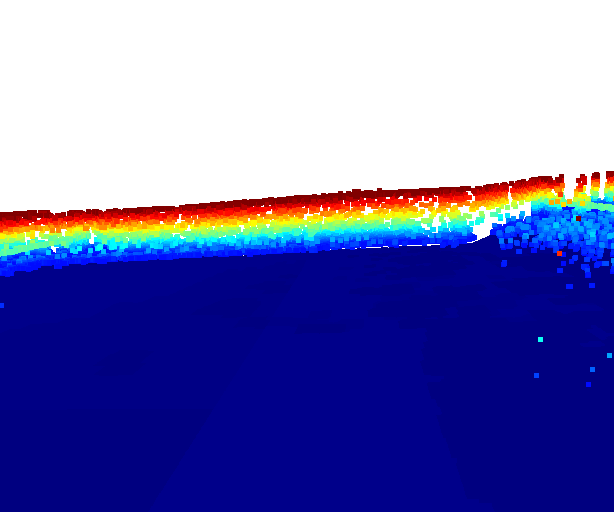
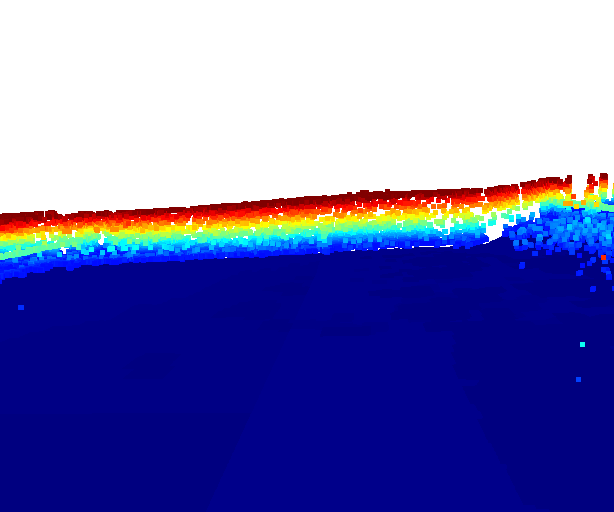
Adjust front/rear view moving position with scale factor;

Changed region(s): [[0.0, 0.3125, 1.0, 0.5625], [0.9902, 0.6875, 1.0, 0.7188], [0.9283, 0.7188, 0.9593, 0.75]]

diff --git a/view/Processed3dView.py b/view/Processed3dView.py
@@ -452,6 +452,7 @@ class ViewProcessor3D():
     def generate_front_rear_view(self, vis3d, target_pos=(0, 0)):
         origin_x, origin_y = self.origin_pos_move
         move_pos_x, move_pos_y = self.locate_moving_distance(target_pos)
+        target_pos_x, target_pos_y = target_pos
         logging.debug(f"Locate front/rear view to move: ({move_pos_x}, {move_pos_y}) for target: {target_pos}")
 
         x0 = int(self.window_width / 2)
@@ -460,12 +461,27 @@ class ViewProcessor3D():
         rotate_x = 800
         rotate_y = 100
 
+        current_zoom_factor = 0.2
+        current_scale_factor = (2.0 + (self.zoom_factor - current_zoom_factor))
+        move_pos_x = move_pos_x * current_scale_factor
+        move_pos_y = move_pos_y * current_scale_factor
+
         front_camera_params = self.get_front_view_camera_params_path()
         self.load_camera_params(vis3d, front_camera_params)
         logging.debug("Loaded front camera parameters")
 
+        if target_pos_x > 0:
+            front_move_pos_x = -abs(move_pos_x)
+        else:
+            front_move_pos_x = abs(move_pos_x)
+
+        if target_pos_y > 0:
+            front_move_pos_y = -abs(move_pos_y)
+        else:
+            front_move_pos_y = abs(move_pos_y)
+
         ctr3d = vis3d.get_view_control()
-        ctr3d.translate(move_pos_x, move_pos_y, xo=origin_x, yo=origin_y)
+        ctr3d.translate(front_move_pos_x, front_move_pos_y, xo=origin_x, yo=origin_y)
 
         #
         # ctr3d = vis3d.get_view_control()
@@ -486,8 +502,18 @@ class ViewProcessor3D():
         rear_camera_parms = self.get_rear_view_camera_params_path()
         self.load_camera_params(vis3d, rear_camera_parms)
 
+        if target_pos_x > 0:
+            rear_move_pos_x = abs(move_pos_x)
+        else:
+            rear_move_pos_x = -abs(move_pos_x)
+
+        if target_pos_y > 0:
+            rear_move_pos_y = abs(move_pos_y)
+        else:
+            rear_move_pos_y = -abs(move_pos_y)
+
         ctr3d = vis3d.get_view_control()
-        ctr3d.translate(move_pos_x, move_pos_y, xo=origin_x, yo=origin_y)
+        ctr3d.translate(rear_move_pos_x, rear_move_pos_y, xo=origin_x, yo=origin_y)
 
         vis3d.poll_events()
         vis3d.update_renderer()
